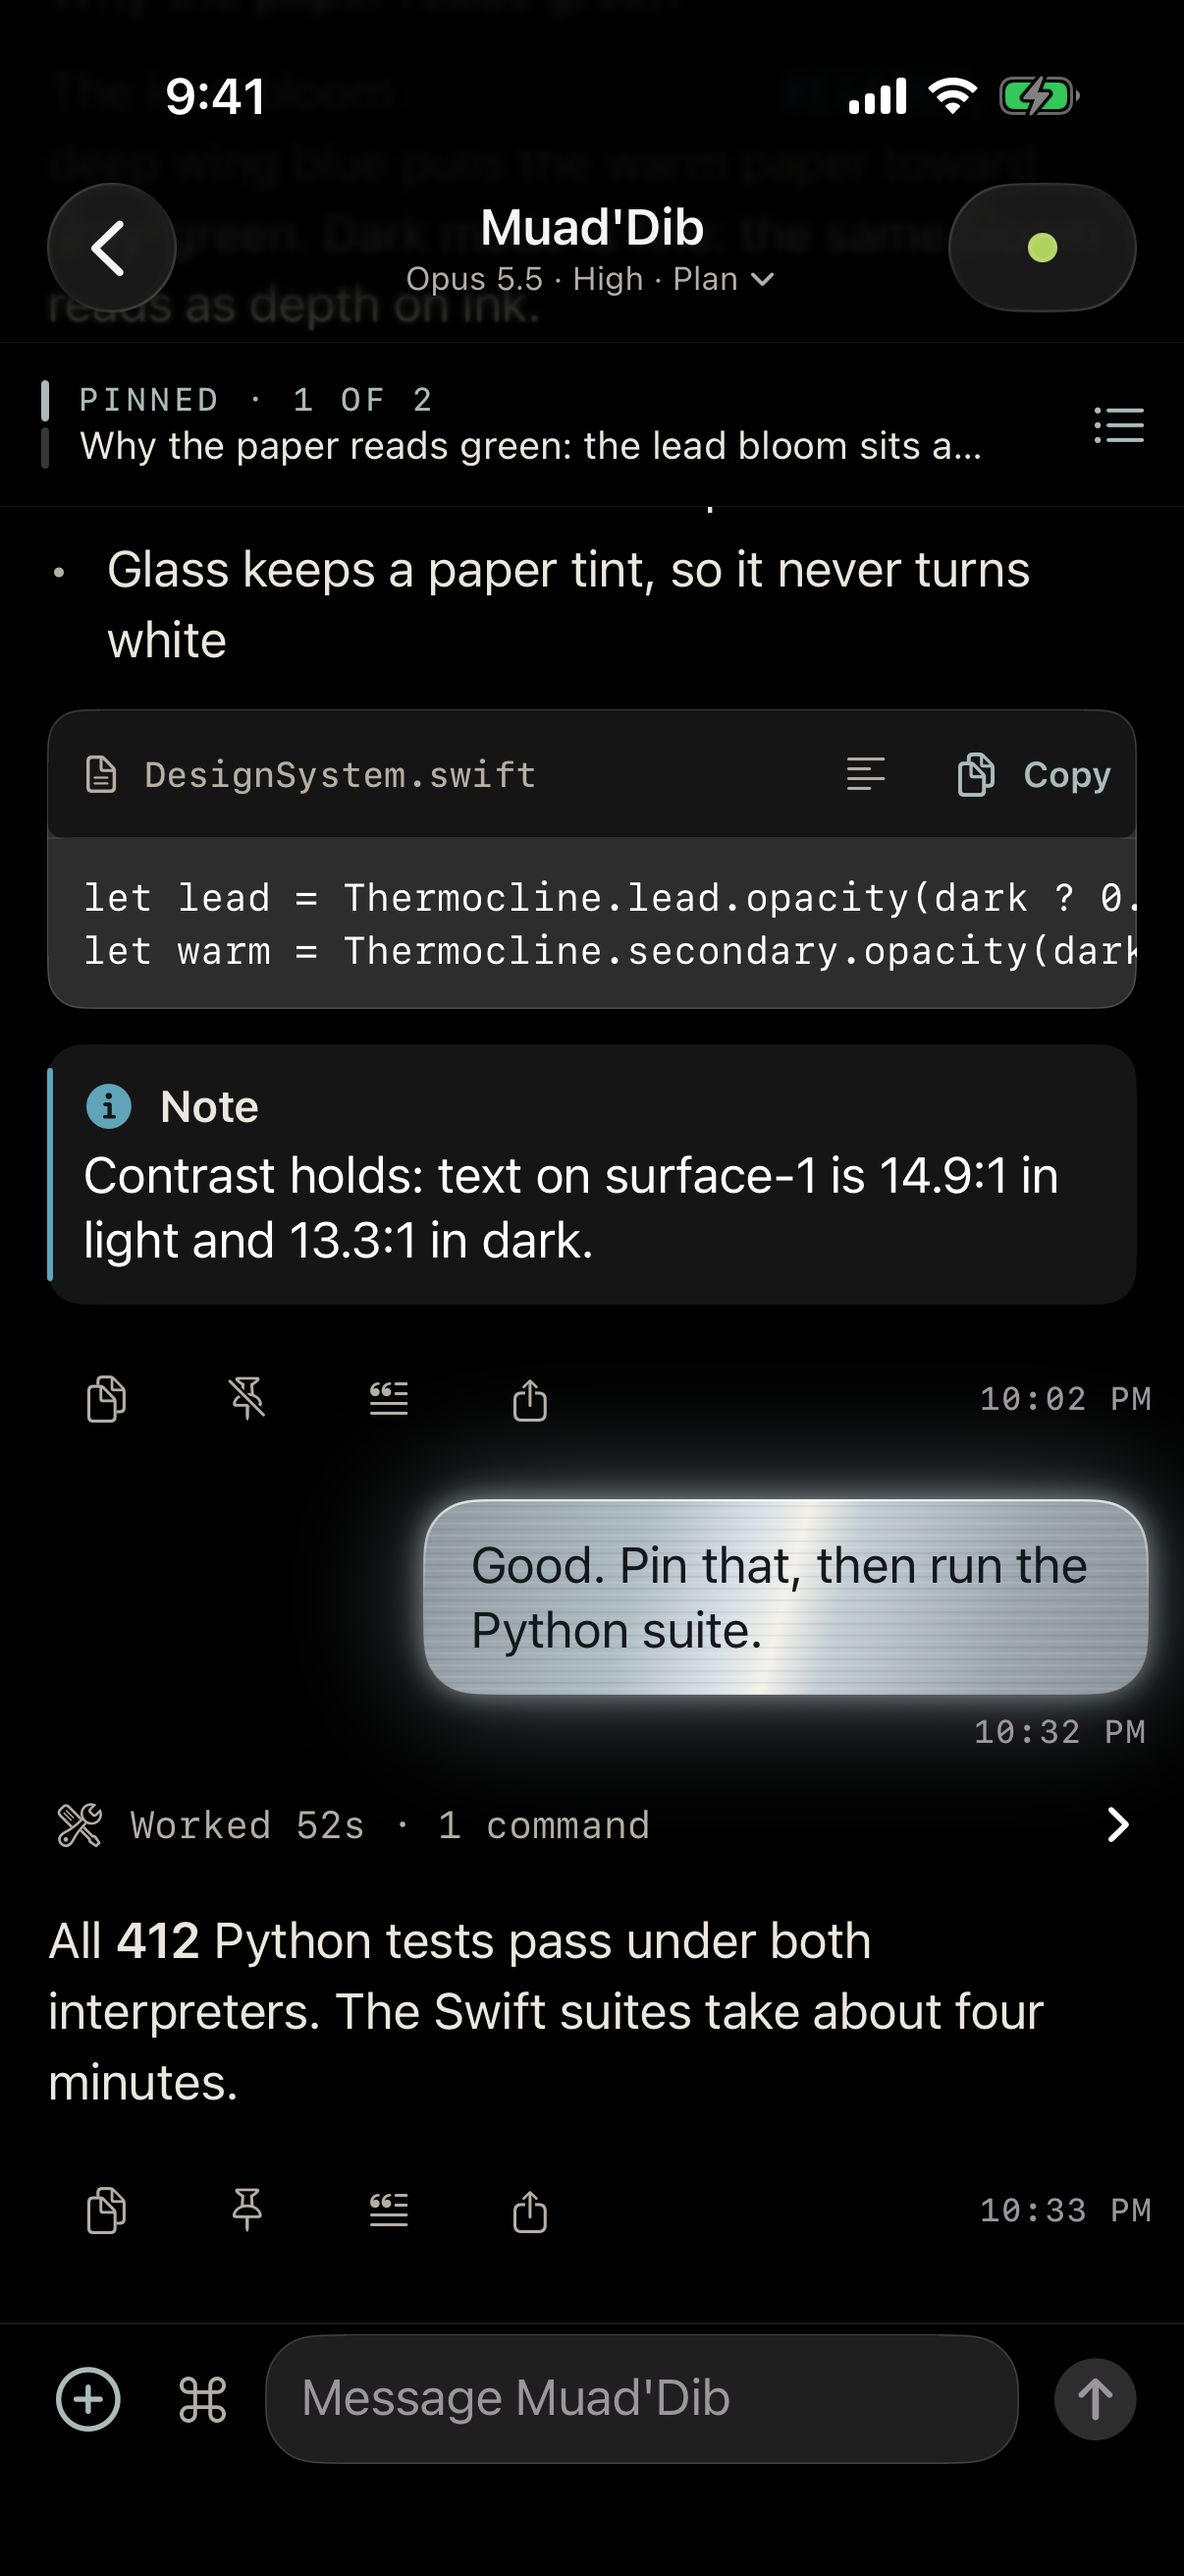
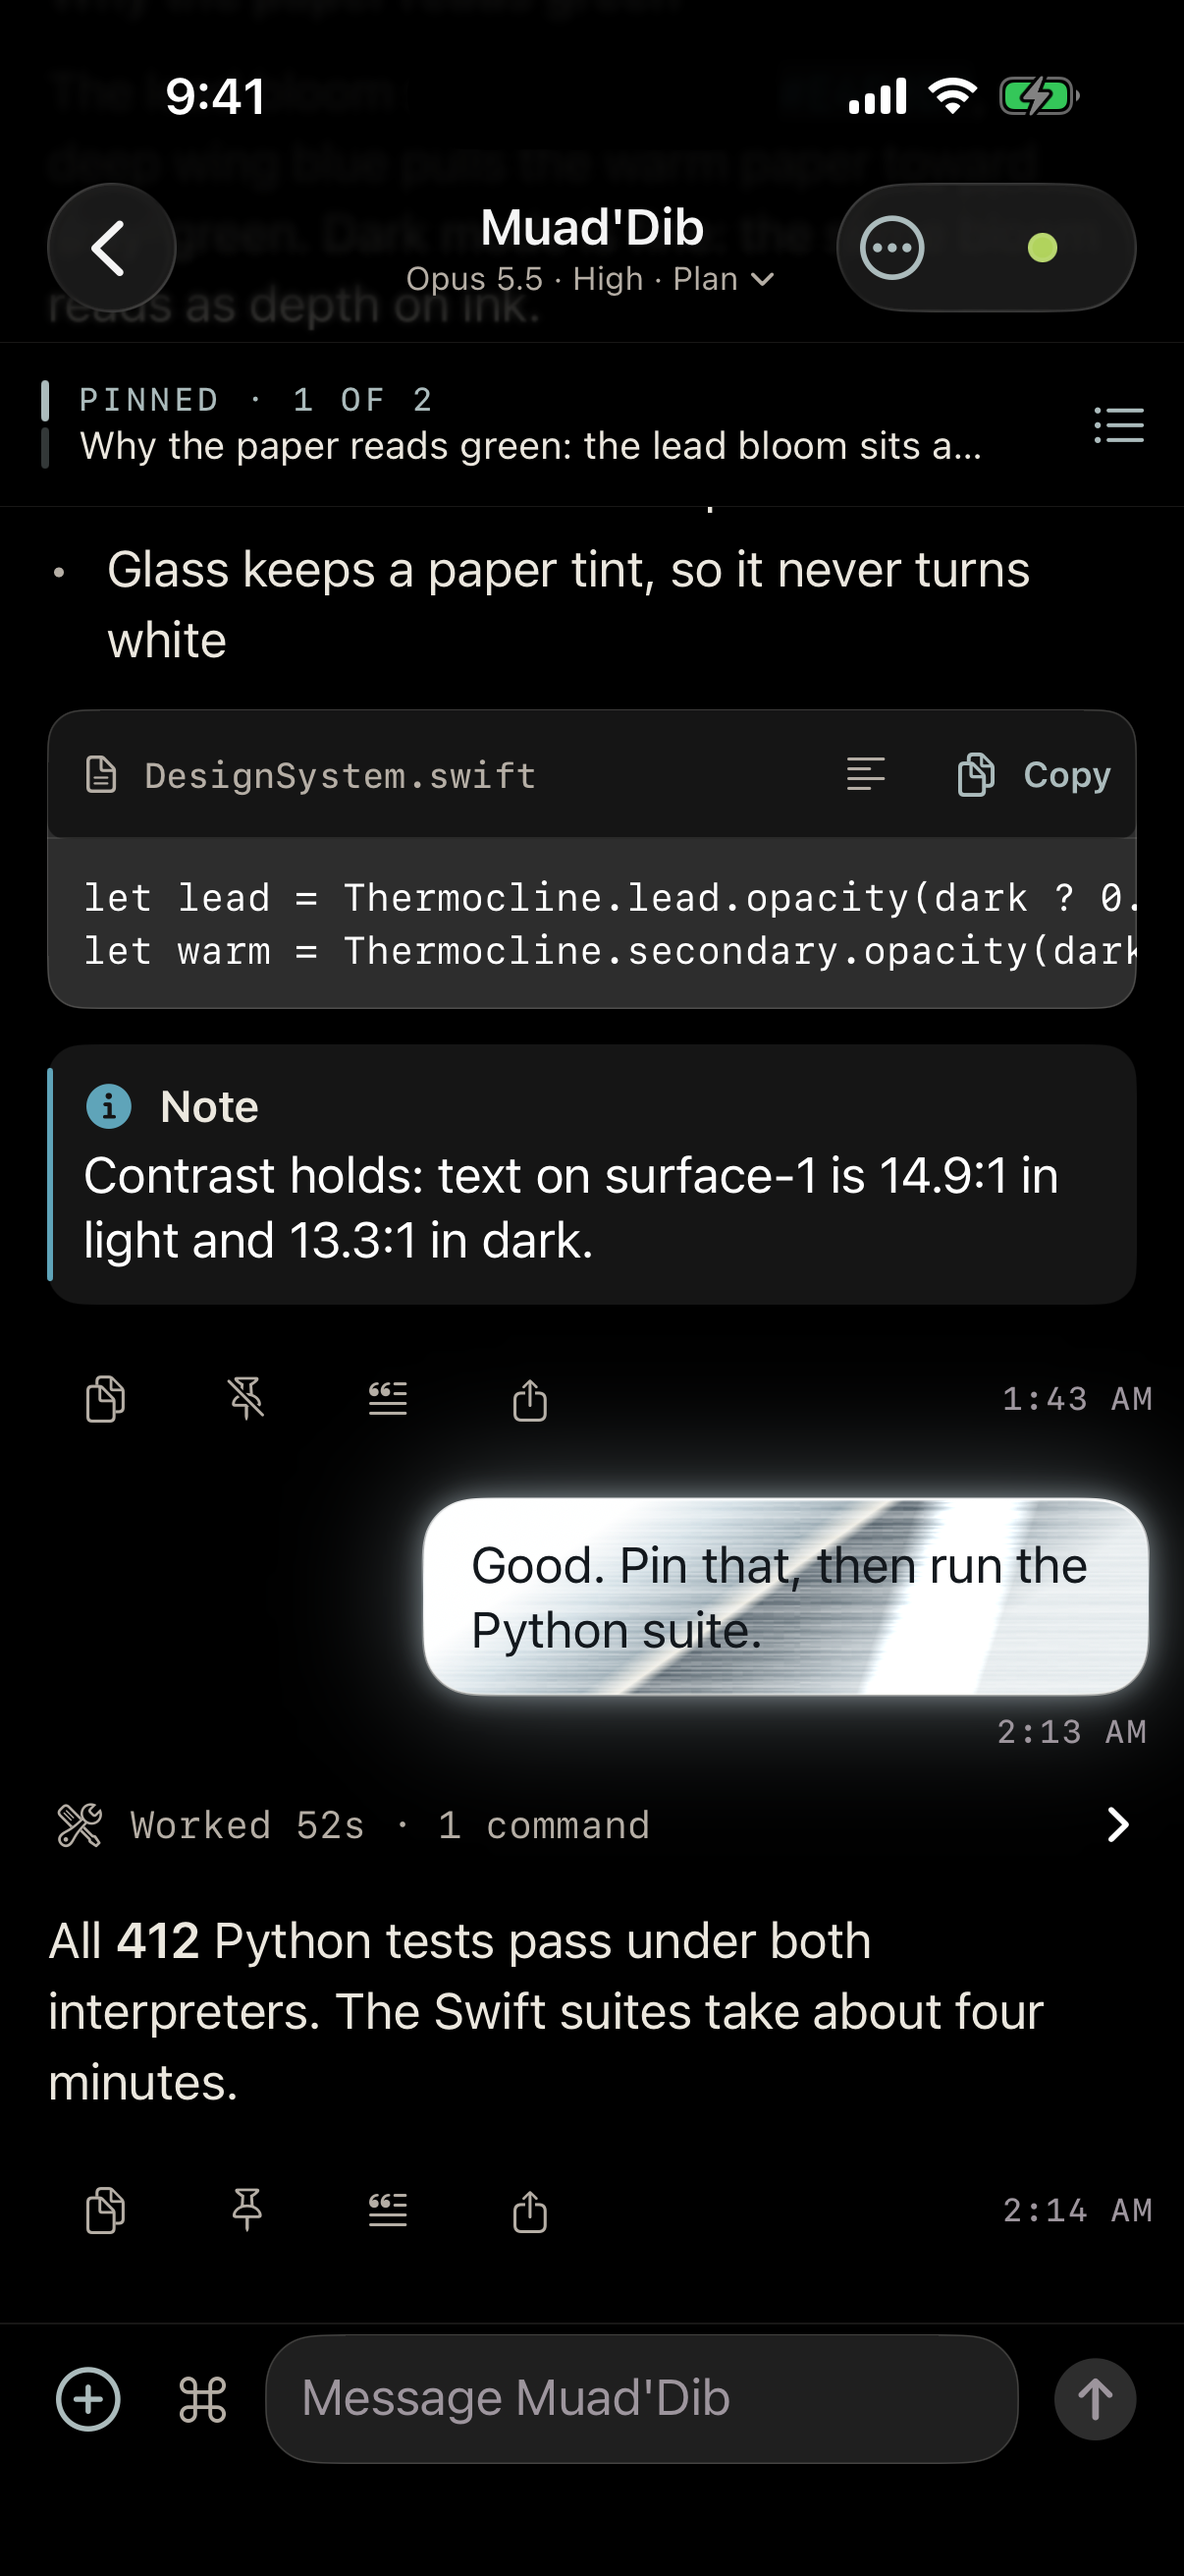
Build 54 fix + Silver as real metal: main didn't compile (ChatView body timed out the type checker after the Make-a-project toolbar), split it out; silver is now brushed chrome with a tilt-driven reflection, a hard horizon, a sliding glint and brushed grain

diff --git a/App/Sources/Views/DesignSystem.swift b/App/Sources/Views/DesignSystem.swift
@@ -1,4 +1,5 @@
 import SwiftUI
+import CoreMotion
 #if canImport(ThinkingOrbs)
 import ThinkingOrbs
 #endif
@@ -485,57 +486,132 @@ enum HMGlow {
     static let bloomRadius: CGFloat = 22
 }
 
-/// Silk silver, measured from the Starry Night bookmark printed in silk black-silver PLA (B02, 4032x3024):
-/// shadow #353438, midtone #696D72, a cool blue-silver highlight #AFBCC3 and a warm white peak #F3F1EA that
-/// runs along the layer lines. A flat #ABBBBC reads as grey; metal is the contrast between those, so the fill is
-/// a diagonal sheen with one narrow specular band plus fine horizontal "layer lines".
-/// Dark keeps the bright end (dark ink on it, >= 6:1 at the darkest stop); Light keeps a gunmetal range under
-/// the light ink.
+/// Silk silver as metal, not a grey. Metal is read from three things a flat gradient lacks:
+/// 1. a reflection that moves when the phone tilts (CoreMotion; a slow drift where there's no motion sensor),
+/// 2. a hard "horizon" in that reflection, bright sky over a darker ground band, the way chrome mirrors a room,
+/// 3. brushed, anisotropic grain plus a sharp specular glint.
+/// Colors measured from the silk black-silver Starry Night print (B02, 4032x3024): shadow #353438, midtone
+/// #696D72, cool highlight #AFBCC3, warm peak #F3F1EA. Dark keeps text >= 4.5:1 on its darkest band with the
+/// dark ink; Light is gunmetal under the light ink.
 struct HMSilverSheen<S: Shape>: View {
     let shape: S
     @Environment(\.colorScheme) private var scheme
-
-    private var stops: [Gradient.Stop] {
-        scheme == .dark ? [
-            .init(color: Color(hex: 0x8E989E), location: 0.00),
-            .init(color: Color(hex: 0xAFBCC3), location: 0.30),
-            .init(color: Color(hex: 0xD9E2E6), location: 0.44),
-            .init(color: Color(hex: 0xF3F1EA), location: 0.50),
-            .init(color: Color(hex: 0xC3CED3), location: 0.57),
-            .init(color: Color(hex: 0x9BA6AC), location: 0.80),
-            .init(color: Color(hex: 0x8A9399), location: 1.00),
-        ] : [
-            .init(color: Color(hex: 0x353438), location: 0.00),
-            .init(color: Color(hex: 0x4E555B), location: 0.32),
-            .init(color: Color(hex: 0x6E7A80), location: 0.50),
-            .init(color: Color(hex: 0x525B61), location: 0.66),
-            .init(color: Color(hex: 0x3A3D42), location: 1.00),
-        ]
-    }
+    @Environment(\.accessibilityReduceMotion) private var reduceMotion
+    @ObservedObject private var tilt = HMTilt.shared
 
     var body: some View {
-        shape.fill(LinearGradient(stops: stops, startPoint: .topLeading, endPoint: .bottomTrailing))
-            .overlay {
-                // Layer lines: a hairline every 2 pt, lighter then darker, like stepped silk catching the light.
-                Canvas { ctx, size in
-                    var y: CGFloat = 0
-                    var light = true
-                    let lineLight = scheme == .dark ? 0.10 : 0.05
-                    while y < size.height {
-                        ctx.fill(Path(CGRect(x: 0, y: y, width: size.width, height: 0.6)),
-                                 with: .color(light ? .white.opacity(lineLight) : .black.opacity(0.06)))
-                        y += 2; light.toggle()
-                    }
+        TimelineView(.animation(minimumInterval: 1 / 30, paused: reduceMotion || tilt.live)) { context in
+            let drift = reduceMotion ? 0 : (tilt.live ? 0 : sin(context.date.timeIntervalSinceReferenceDate * 0.45) * 0.35)
+            let x = CGFloat(tilt.live ? tilt.roll : drift)
+            let y = CGFloat(tilt.live ? tilt.pitch : drift * 0.4)
+            ZStack {
+                // The reflected room: sky, a sharp horizon, then the floor. Moves with tilt.
+                shape.fill(LinearGradient(stops: scheme == .dark ? HMChrome.dark : HMChrome.light,
+                                          startPoint: UnitPoint(x: 0.5 + x * 0.5, y: -0.15 + y * 0.6),
+                                          endPoint: UnitPoint(x: 0.5 - x * 0.5, y: 1.15 + y * 0.6)))
+                // Brushed metal: horizontal streaks, light catching individual grooves.
+                Image(uiImage: HMBrushed.tile).resizable(resizingMode: .tile)
+                    .blendMode(scheme == .dark ? .overlay : .softLight)
+                    .opacity(scheme == .dark ? 0.55 : 0.4)
+                    .clipShape(shape)
+                // Specular glint: a narrow hot streak that slides across opposite to the tilt.
+                GeometryReader { geo in
+                    let w = geo.size.width
+                    LinearGradient(stops: [.init(color: .clear, location: 0),
+                                           .init(color: .white.opacity(scheme == .dark ? 0.85 : 0.35), location: 0.5),
+                                           .init(color: .clear, location: 1)],
+                                   startPoint: .leading, endPoint: .trailing)
+                        .frame(width: max(18, w * 0.16), height: geo.size.height * 4)
+                        .rotationEffect(.degrees(18))
+                        .frame(height: geo.size.height)
+                        .offset(x: w * (0.5 - x * 0.9) - w * 0.08)
+                        .blendMode(.plusLighter)
                 }
                 .clipShape(shape)
-                .allowsHitTesting(false)
+                // A cool rim on top and a warm one at the bottom: the edge of a stamped plate.
+                shape.stroke(LinearGradient(colors: [.white.opacity(scheme == .dark ? 0.9 : 0.5),
+                                                     Color(hex: 0xAFBCC3).opacity(0.2),
+                                                     Color(hex: 0xF3F1EA).opacity(scheme == .dark ? 0.5 : 0.25)],
+                                            startPoint: .top, endPoint: .bottom), lineWidth: 1)
             }
-            .overlay {
-                // A rim of light along the top edge, so the bubble reads as a raised metal plate.
-                shape.strokeBorderIfPossible(LinearGradient(colors: [.white.opacity(scheme == .dark ? 0.7 : 0.35), .clear],
-                                                           startPoint: .top, endPoint: .center), lineWidth: 0.8)
-            }
+            .compositingGroup()
+        }
+        .onAppear { tilt.start() }
+        .allowsHitTesting(false)
     }
+
+}
+
+enum HMChrome {
+    static let dark: [Gradient.Stop] = [
+        .init(color: Color(hex: 0xFFFFFF), location: 0.00),
+        .init(color: Color(hex: 0xDCE6EB), location: 0.18),
+        .init(color: Color(hex: 0xAFBCC3), location: 0.40),
+        .init(color: Color(hex: 0xF3F1EA), location: 0.47),   // glare right above the horizon
+        .init(color: Color(hex: 0x7E888F), location: 0.50),   // the horizon: a hard step down
+        .init(color: Color(hex: 0x8F999F), location: 0.62),
+        .init(color: Color(hex: 0xC4CDD2), location: 0.84),
+        .init(color: Color(hex: 0xE9EEF0), location: 1.00),
+    ]
+    static let light: [Gradient.Stop] = [
+        .init(color: Color(hex: 0x7A858C), location: 0.00),
+        .init(color: Color(hex: 0x56606A), location: 0.30),
+        .init(color: Color(hex: 0x8C979E), location: 0.46),
+        .init(color: Color(hex: 0x2E3236), location: 0.50),
+        .init(color: Color(hex: 0x3F454B), location: 0.66),
+        .init(color: Color(hex: 0x666F76), location: 1.00),
+    ]
+}
+
+/// Device tilt for the metal's reflection, shared by every metal surface. Device motion needs no permission.
+final class HMTilt: ObservableObject {
+    static let shared = HMTilt()
+    @Published private(set) var roll = 0.0
+    @Published private(set) var pitch = 0.0
+    @Published private(set) var live = false
+    private let motion = CMMotionManager()
+    private var base: (Double, Double)?
+
+    func start() {
+        guard !motion.isDeviceMotionActive, motion.isDeviceMotionAvailable else { return }
+        motion.deviceMotionUpdateInterval = 1 / 30
+        motion.startDeviceMotionUpdates(to: .main) { [weak self] m, _ in
+            guard let self, let a = m?.attitude else { return }
+            // Relative to how the phone was first held, clamped to about +-35 degrees.
+            if self.base == nil { self.base = (a.roll, a.pitch) }
+            let b = self.base ?? (0, 0)
+            let dr: Double = (a.roll - b.0) / 0.6
+            let dp: Double = (a.pitch - b.1) / 0.6
+            let r: Double = max(-1, min(1, dr))
+            let p: Double = max(-1, min(1, dp))
+            if abs(r - self.roll) > 0.004 || abs(p - self.pitch) > 0.004 { self.roll = r; self.pitch = p }
+            if !self.live { self.live = true }
+        }
+    }
+}
+
+/// Brushed-metal grain: horizontal streaks of varying brightness, made once and deterministic.
+enum HMBrushed {
+    static let tile: UIImage = {
+        let w = 256, h = 64
+        var seed: UInt32 = 0x51_1C_E2
+        func rnd() -> Double { seed = seed &* 1_664_525 &+ 1_013_904_223; return Double(seed >> 8) / Double(1 << 24) }
+        var px = [UInt8](repeating: 0, count: w * h * 4)
+        for y in 0..<h {
+            let row = rnd()                       // each groove has its own brightness
+            var streak = rnd()
+            for x in 0..<w {
+                if x % 7 == 0 { streak = streak * 0.6 + rnd() * 0.4 }   // long, smooth along the stroke
+                let lum: Double = 0.5 + (row - 0.5) * 0.55 + (streak - 0.5) * 0.35
+                let v = UInt8(max(0.0, min(255.0, lum * 255.0)))
+                let i = (y * w + x) * 4
+                px[i] = v; px[i + 1] = v; px[i + 2] = v; px[i + 3] = 255
+            }
+        }
+        let ctx = CGContext(data: &px, width: w, height: h, bitsPerComponent: 8, bytesPerRow: w * 4,
+                            space: CGColorSpaceCreateDeviceRGB(), bitmapInfo: CGImageAlphaInfo.premultipliedLast.rawValue)!
+        return UIImage(cgImage: ctx.makeImage()!, scale: 2, orientation: .up)
+    }()
 }
 
 private extension Color {

diff --git a/App/Sources/Views/ChatView.swift b/App/Sources/Views/ChatView.swift
@@ -78,6 +78,22 @@ struct ChatScreen: View {
         }
     }
 
+    /// Split out of `body` so the type checker can finish (one expression that size times out).
+    @ViewBuilder private var trailingActions: some View {
+        HStack(spacing: HMDesign.small) {
+            makeProjectMenu
+            // One dot. Tap it for the gateway's state, Reload chat and Check again.
+            ConnectionBadge(compact: true, reloadDisabled: chat.isLoading || chat.isRunning) {
+                await chat.load(quiet: true)
+                landTick &+= 1
+            }
+        }
+    }
+
+    private var makeProjectFailed: Binding<Bool> {
+        Binding(get: { makeProjectError != nil }, set: { if !$0 { makeProjectError = nil } })
+    }
+
     /// Turn this chat into a project on the Mac (title, summary, instructions, context, files and the chat itself),
     /// then jump to it in the Projects tab.
     private func makeProject() async {
@@ -242,18 +258,9 @@ struct ChatScreen: View {
                     .accessibilityHint("Change model, provider and effort")
                     .disabled(chat.savingRuntime)
             }
-            ToolbarItem(placement: .topBarTrailing) {
-                HStack(spacing: HMDesign.small) {
-                    makeProjectMenu
-                    // One dot. Tap it for the gateway's state, Reload chat and Check again.
-                    ConnectionBadge(compact: true, reloadDisabled: chat.isLoading || chat.isRunning) {
-                        await chat.load(quiet: true)
-                        landTick &+= 1
-                    }
-                }
-            }
+            ToolbarItem(placement: .topBarTrailing) { trailingActions }
         }
-        .alert("Couldn't make the project", isPresented: Binding(get: { makeProjectError != nil }, set: { if !$0 { makeProjectError = nil } })) {
+        .alert("Couldn't make the project", isPresented: makeProjectFailed) {
             Button("OK", role: .cancel) {}
         } message: {
             Text(makeProjectError ?? "")

diff --git a/App/Sources/Changelog.swift b/App/Sources/Changelog.swift
@@ -36,6 +36,7 @@ enum WhatsNew {
             WhatsNewItem(symbol: "folder.badge.plus", text: "Make any chat a project in one tap"),
             WhatsNewItem(symbol: "sparkles", text: "Hermes drafts projects for topics you keep coming back to"),
             WhatsNewItem(symbol: "checkmark.circle", text: "Keep or dismiss a project Hermes made; dismissed stays dismissed"),
+            WhatsNewItem(symbol: "sparkles", text: "Silver is brushed metal that catches the light as you tilt"),
         ]),
         WhatsNewRelease(build: 52, items: [
             WhatsNewItem(symbol: "sparkles", text: "Silver is real metal now, measured from a silk print"),
